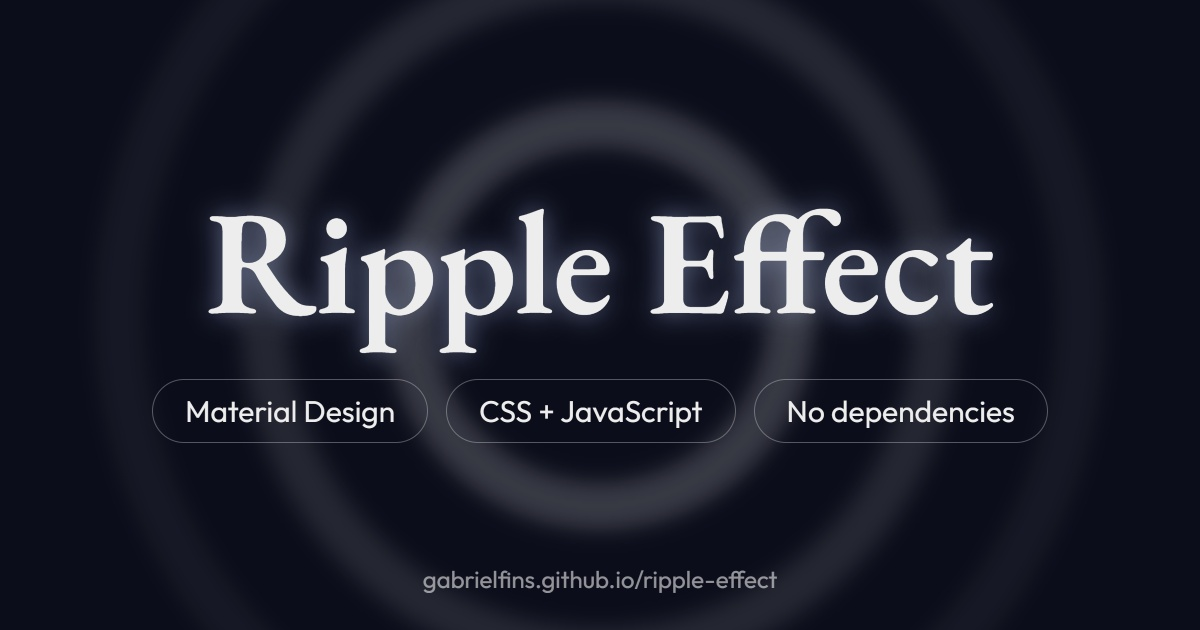
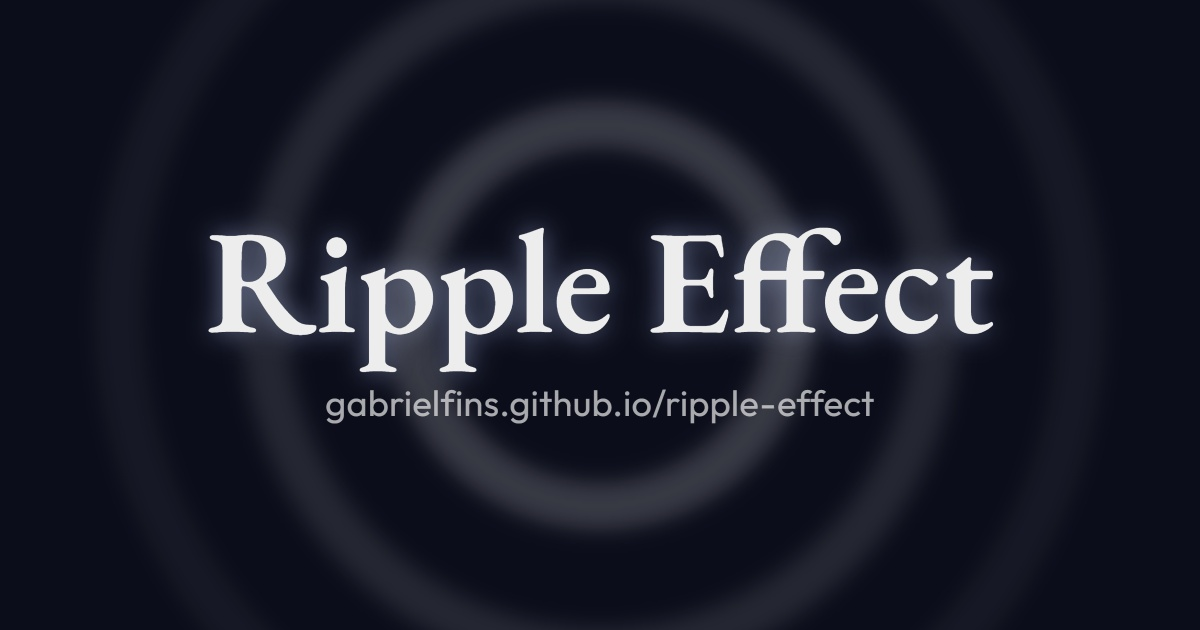
feat: simpler share card, with the address under the name
Drop the three badges and move the address from the bottom edge to
right under the name. The image description follows.

Changed region(s): [[0.1542, 0.3317, 0.8633, 0.6937], [0.3392, 0.9048, 0.6475, 0.9349], [0.4317, 0.3317, 0.4625, 0.3921]]

diff --git a/docs/meta-image.html b/docs/meta-image.html
@@ -61,7 +61,7 @@
         flex-direction: column;
         align-items: center;
         justify-content: center;
-        gap: 44px;
+        gap: 26px;
       }
 
       h1 {
@@ -70,28 +70,13 @@
         text-shadow: 0 0 26px rgb(191 206 250 / 0.55);
       }
 
-      .badges {
-        display: flex;
-        gap: 18px;
-      }
-
-      .badge {
-        padding: 12px 32px;
-        border: 1px solid rgb(255 255 255 / 0.3);
-        border-radius: 999px;
-        font-size: 30px;
-        font-weight: 400;
-      }
-
+      /* The address, right under the name. */
       .url {
-        position: fixed;
-        bottom: 36px;
-        left: 0;
-        right: 0;
         margin: 0;
-        text-align: center;
-        font-size: 24px;
-        opacity: 0.6;
+        font-size: 36px;
+        font-weight: 400;
+        letter-spacing: 0.01em;
+        opacity: 0.7;
       }
     </style>
   </head>
@@ -105,12 +90,7 @@
 
     <main>
       <h1>Ripple Effect</h1>
-      <div class="badges">
-        <div class="badge">Material Design</div>
-        <div class="badge">CSS + JavaScript</div>
-        <div class="badge">No dependencies</div>
-      </div>
+      <p class="url">gabrielfins.github.io/ripple-effect</p>
     </main>
-    <p class="url">gabrielfins.github.io/ripple-effect</p>
   </body>
 </html>

diff --git a/docs/index.html b/docs/index.html
@@ -36,7 +36,7 @@
     <meta property="og:image:height" content="630" />
     <meta
       property="og:image:alt"
-      content="Ripple Effect, with the badges Material Design, CSS + JavaScript and No dependencies, over soft concentric rings."
+      content="Ripple Effect, with the address gabrielfins.github.io/ripple-effect under it, over soft concentric rings."
     />
     <meta property="og:locale" content="en_US" />
 
@@ -60,7 +60,7 @@
     />
     <meta
       name="twitter:image:alt"
-      content="Ripple Effect, with the badges Material Design, CSS + JavaScript and No dependencies, over soft concentric rings."
+      content="Ripple Effect, with the address gabrielfins.github.io/ripple-effect under it, over soft concentric rings."
     />
 
     <!-- iOS would otherwise label a home-screen icon with the page's own title. -->
